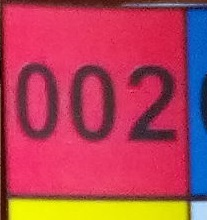
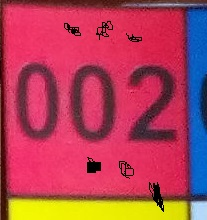
KeepOnlyNLargestAreaContours, test + experiments notebook

diff --git a/test/TestKeepNLargestAreaContours.py b/test/TestKeepNLargestAreaContours.py
@@ -1,0 +1,116 @@
+import unittest
+import cv2
+import numpy as np
+
+from KeepNLargestAreaContours import KeepNLargestAreaContours
+
+
+class TestKeepOnlyNLargestAreaContours(unittest.TestCase):
+    def test_keep_n_largest_area_contours_where_invert_is_required(self):
+        # given
+        image = cv2.imread("./images/KeepNLargestAreaContours/"
+                           "test_keep_n_largest_area_contours_where_invert_is_required__input_image.png",
+                           cv2.CV_LOAD_IMAGE_GRAYSCALE)
+        kept_contour_number = 2
+        keep_n_largest_area_contours = KeepNLargestAreaContours(image=image,
+                                                                kept_contour_number=kept_contour_number)
+
+        expected_image = \
+            cv2.imread("./images/KeepNLargestAreaContours/"
+                       "test_keep_n_largest_area_contours_where_invert_is_required__output_image.png",
+                       cv2.CV_LOAD_IMAGE_GRAYSCALE)
+
+        # when
+        keep_n_largest_area_contours.invert_image()
+        keep_n_largest_area_contours.delete_contours()
+        keep_n_largest_area_contours.invert_image()
+        actual_image = keep_n_largest_area_contours.image
+
+        # that
+        self.assertEqual(np.array_equal(actual_image, expected_image), True)
+
+    def test_invert_image_working(self):
+        # given
+        image = cv2.imread("./images/KeepNLargestAreaContours/test_invert_image_working__input_image.png",
+                           cv2.CV_LOAD_IMAGE_GRAYSCALE)
+        keep_n_largest_area_contours = KeepNLargestAreaContours(image=image,
+                                                                kept_contour_number=None)
+
+        expected_inverted_image = \
+            cv2.imread("./images/KeepNLargestAreaContours/test_invert_image_working__output_image.png",
+                       cv2.CV_LOAD_IMAGE_GRAYSCALE)
+
+        # when
+        keep_n_largest_area_contours.invert_image()
+        actual_inverted_image = keep_n_largest_area_contours.image
+
+        # that
+        self.assertEqual(np.array_equal(actual_inverted_image, expected_inverted_image), True)
+
+    def test_delete_contours_working(self):
+        # given
+        image = cv2.imread("./images/KeepNLargestAreaContours/test_delete_contours_working__input_image.png",
+                           cv2.CV_LOAD_IMAGE_GRAYSCALE)
+        kept_contour_number = 2
+        keep_n_largest_area_contours = KeepNLargestAreaContours(image=image,
+                                                                kept_contour_number=kept_contour_number)
+
+        expected_output_image = \
+            cv2.imread("./images/KeepNLargestAreaContours/test_delete_contours_working__output_image.png",
+                       cv2.CV_LOAD_IMAGE_GRAYSCALE)
+
+        # when
+        keep_n_largest_area_contours.delete_contours()
+        actual_output_image = keep_n_largest_area_contours.image
+
+        # that
+        self.assertEqual(np.array_equal(actual_output_image, expected_output_image), True)
+
+    def test_contours_to_delete__2_smaller_upper_rectangles(self):
+        # given
+        image = cv2.imread("./images/KeepNLargestAreaContours/test_contours_to_delete__2_smaller_upper_rectangles.png",
+                           cv2.CV_LOAD_IMAGE_GRAYSCALE)
+        kept_contour_number = 2
+        keep_n_largest_area_contours = KeepNLargestAreaContours(image=image,
+                                                                kept_contour_number=kept_contour_number)
+
+        expected_contours_to_delete = [np.array([[[27, 5]], [[27, 17]], [[88, 17]], [[88, 5]]]),
+                                       np.array([[[4,  5]], [[4,  16]], [[21, 16]], [[21, 5]]])]
+
+        # when
+        actual_contours_to_delete = keep_n_largest_area_contours.contours_to_delete
+
+        # that
+        self.assertEqual(np.array_equal(actual_contours_to_delete, expected_contours_to_delete), True)
+
+    def test_contour_areas_working(self):
+        # given
+        image = cv2.imread("./images/KeepNLargestAreaContours/test_contour_areas_working.png",
+                           cv2.CV_LOAD_IMAGE_GRAYSCALE)
+        keep_n_largest_area_contours = KeepNLargestAreaContours(image=image, kept_contour_number=None)
+
+        expected_contour_areas = np.array([5246.0, 1032.0])
+
+        # when
+        actual_contour_areas = keep_n_largest_area_contours.contour_areas
+
+        # that
+        self.assertEqual(np.array_equal(actual_contour_areas, expected_contour_areas), True)
+
+    def test_first_level_contours_working(self):
+        # given
+        image = cv2.imread("./images/KeepNLargestAreaContours/test_first_level_contours_working.png",
+                           cv2.CV_LOAD_IMAGE_GRAYSCALE)
+        keep_n_largest_area_contours = KeepNLargestAreaContours(image=image, kept_contour_number=None)
+
+        expected_first_level_contours = [np.array([[[27, 5]], [[27, 91]], [[88, 91]], [[88, 5]]]),
+                                         np.array([[[4,  5]], [[4,  91]], [[16, 91]], [[16, 5]]])]
+
+        # when
+        actual_first_level_contours = keep_n_largest_area_contours.first_level_contours
+
+        # that
+        self.assertEqual(np.array_equal(actual_first_level_contours, expected_first_level_contours), True)
+
+if __name__ == '__main__':
+    unittest.main()

diff --git a/classes/KeepNLargestAreaContours.py b/classes/KeepNLargestAreaContours.py
@@ -1,0 +1,52 @@
+import numpy as np
+import cv2
+
+
+class KeepNLargestAreaContours:
+    def __init__(self,
+                 image,
+                 kept_contour_number):
+
+        self.image = image
+        self.kept_contour_number = kept_contour_number
+
+    def invert_image(self):
+        self.image = 255 - self.image
+
+    def delete_contours(self):
+        for contour_to_delete in self.contours_to_delete:
+            cv2.drawContours(self.image, [contour_to_delete], 0, 0, -1)
+
+    @property
+    def contours_to_delete(self):
+        contours_to_delete = []
+        decreasing_area_order = np.argsort(-np.array(self.contour_areas))
+
+        for index in range(0, len(self.first_level_contours)):
+            if decreasing_area_order[index] >= self.kept_contour_number:
+                contours_to_delete.append(self.first_level_contours[index])
+
+        return contours_to_delete
+
+    @property
+    def contour_areas(self):
+        contour_areas = []
+
+        for actual_contour in self.first_level_contours:
+            actual_area = cv2.contourArea(actual_contour)
+            contour_areas.append(actual_area)
+
+        return np.array(contour_areas)
+
+    @property
+    def first_level_contours(self):
+        first_level_contours = []
+        copy_to_detect_contours = self.image.copy()
+        contours, hierarchy = cv2.findContours(copy_to_detect_contours, cv2.RETR_TREE, cv2.CHAIN_APPROX_SIMPLE)
+
+        actual_contour_index = 0
+        while actual_contour_index != -1:
+            first_level_contours.append(contours[actual_contour_index])
+            actual_contour_index = hierarchy[0][actual_contour_index][0]
+
+        return first_level_contours
